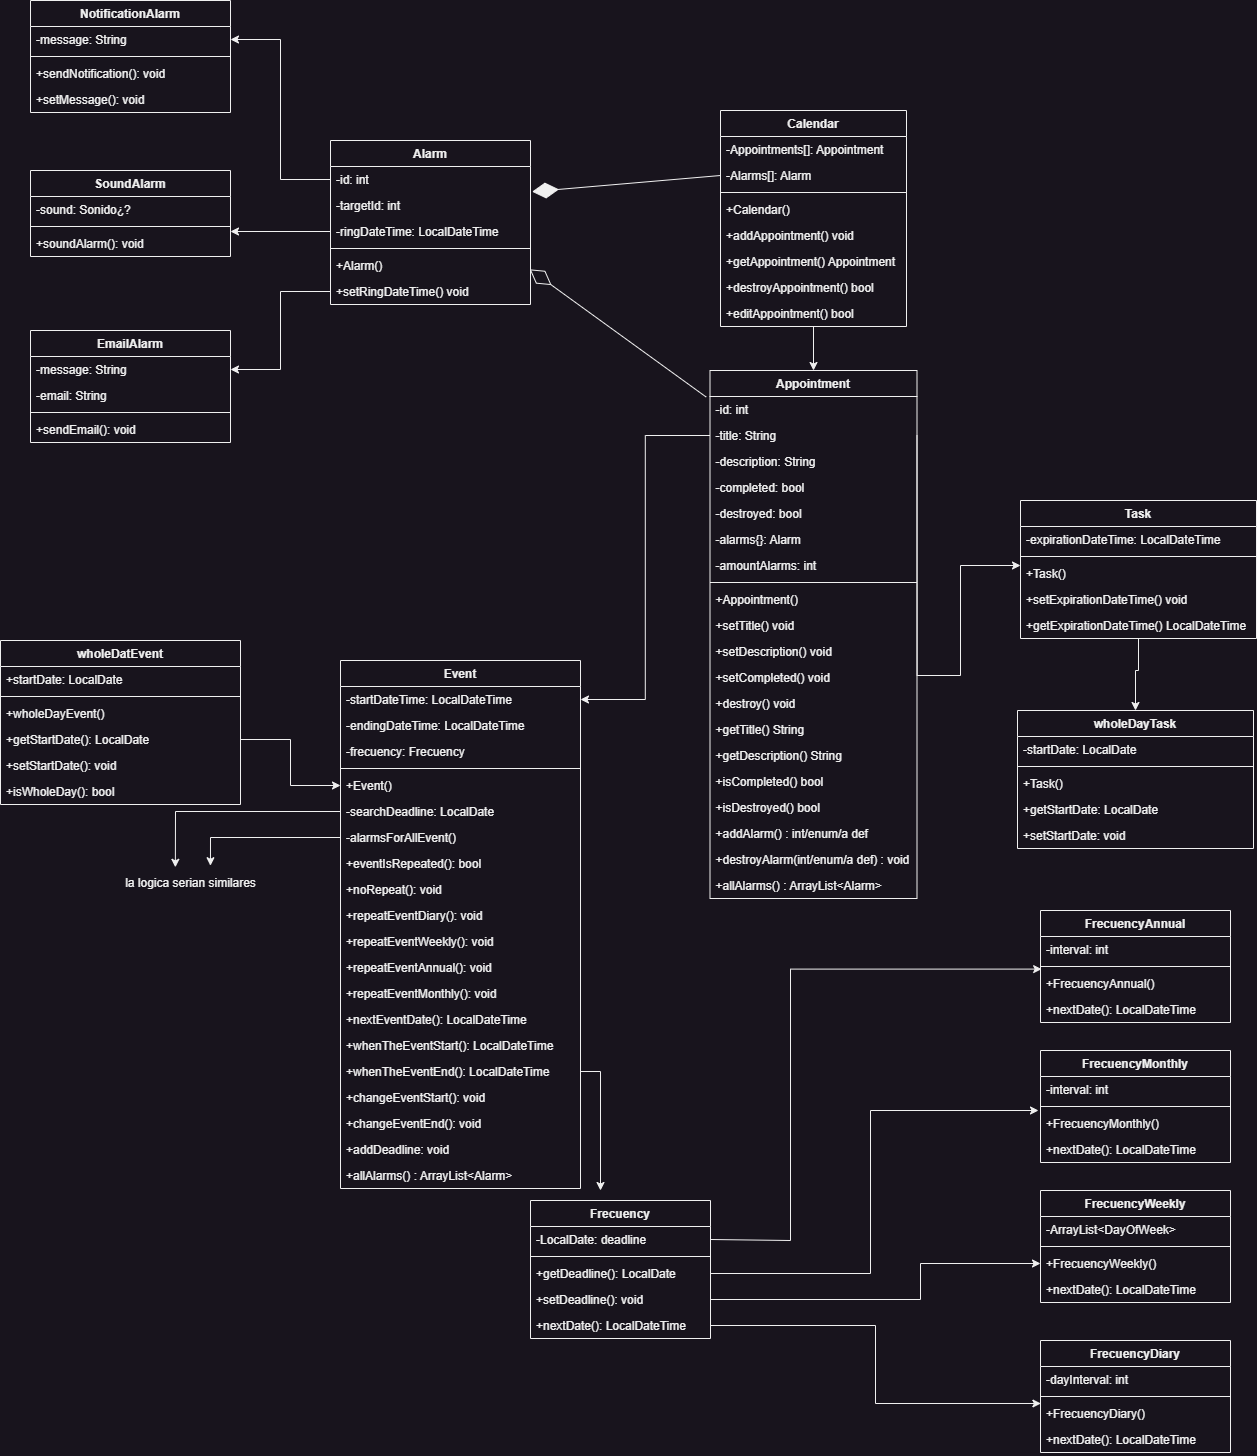
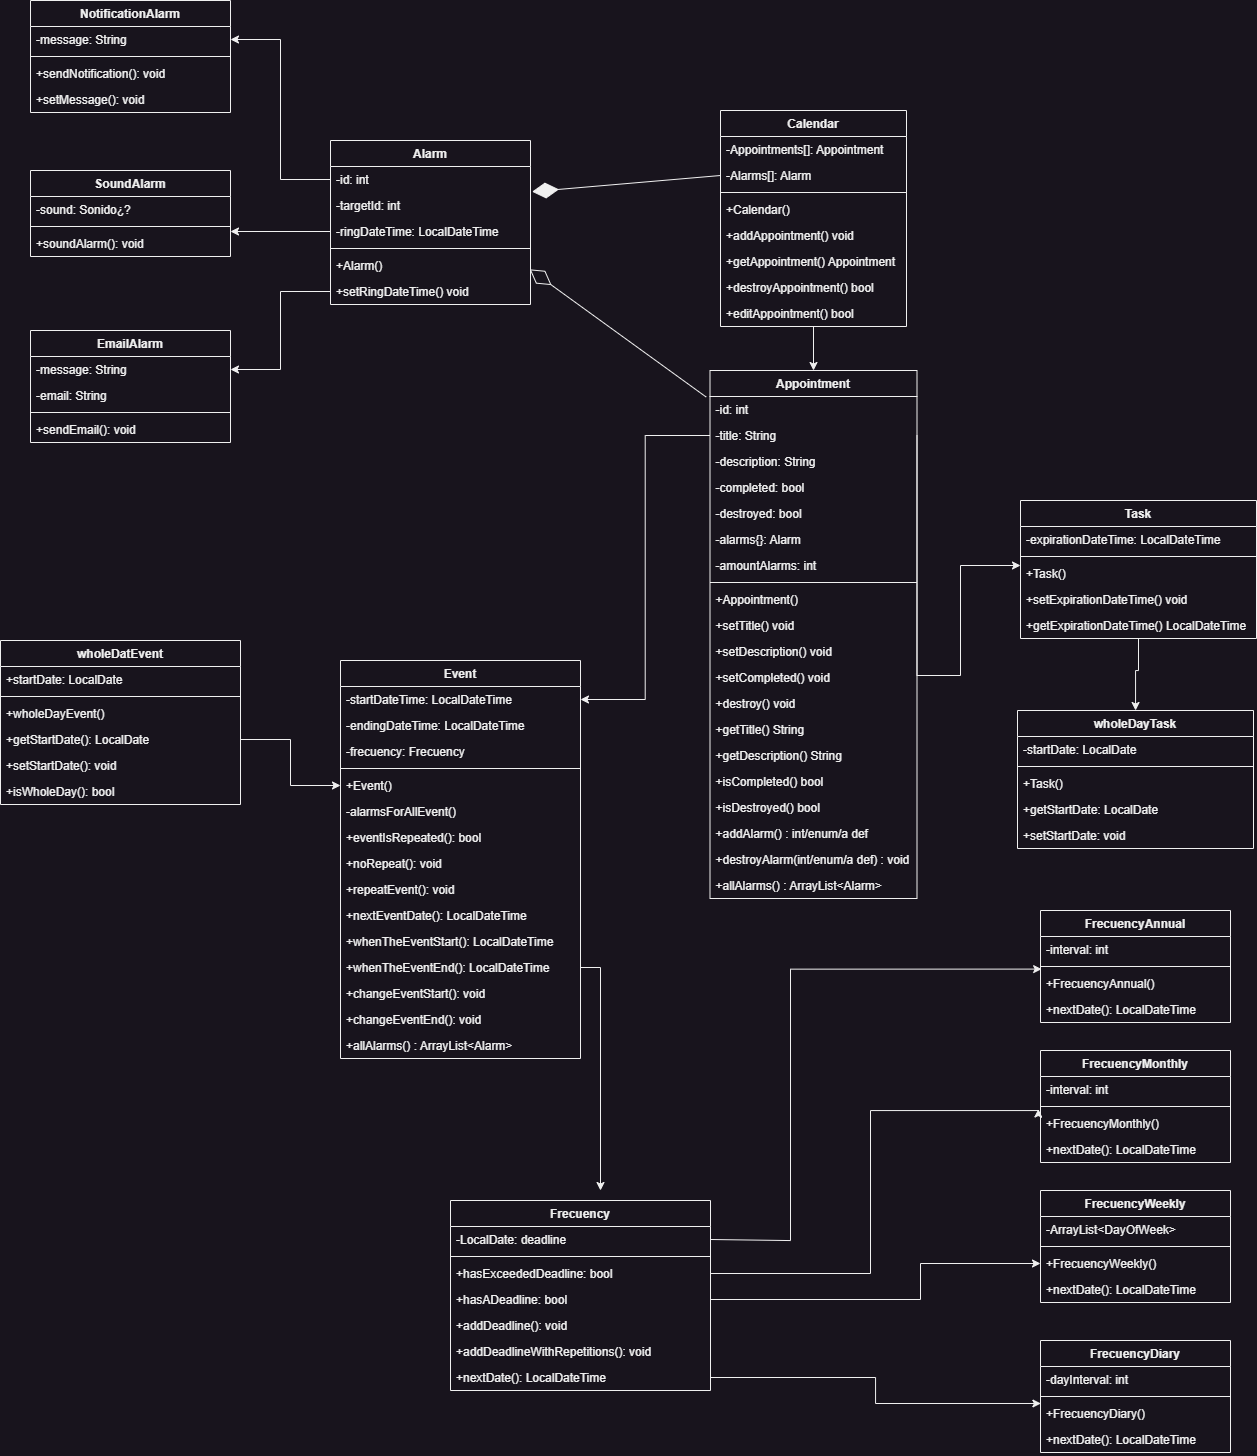
Update: mejora en el codigo, eliminar algunos get y y cumplir el principio EDP Fix: agrego las clases de las alarmas sin completar

Changed region(s): [[0.2792, 0.5563, 0.5274, 0.9581], [0.0931, 0.5872, 0.1862, 0.6181]]

diff --git a/src/test/java/org/calendar/EventTest.java b/src/test/java/org/calendar/EventTest.java
@@ -82,7 +82,8 @@ public class EventTest {
         LocalDateTime start = LocalDateTime.now().withHour(12).withMinute(00).withSecond(00);
         LocalDateTime end = LocalDateTime.now().plusDays(2).withHour(12).withMinute(00).withSecond(00);
         Event eventWithFrecuency = new Event(4, title, description, start, end);
-        eventWithFrecuency.repeatEventDiary(2);
+        Frecuency frecuencyEvent = new FrecuencyDiary(2);
+        eventWithFrecuency.repeatEvent(frecuencyEvent);
         assertTrue(eventWithFrecuency.eventIsRepeated());
     }
 
@@ -94,7 +95,8 @@ public class EventTest {
         LocalDateTime start = LocalDateTime.now().withHour(12).withMinute(00).withSecond(00);
         LocalDateTime end = LocalDateTime.now().plusDays(2).withHour(12).withMinute(00).withSecond(00);
         Event eventWithoutFrecuency = new Event(4, title, description, start, end);
-        eventWithoutFrecuency.repeatEventDiary(2);
+        Frecuency frecuencyEvent = new FrecuencyDiary(2);
+        eventWithoutFrecuency.repeatEvent(frecuencyEvent);
         eventWithoutFrecuency.noRepeat();
         assertFalse(eventWithoutFrecuency.eventIsRepeated());
         assertNull(eventWithoutFrecuency.nextEventDate(start));
@@ -108,8 +110,9 @@ public class EventTest {
         LocalDateTime start = LocalDateTime.of(2023,04,16, 12,0);
         LocalDateTime end = start.plusDays(1);
         Event event = new Event(5, title, description, start, end);
-        event.repeatEventDiary(1);
-        event.addDeadline(LocalDate.of(2023,04,20));
+        Frecuency frecuencyEvent = new FrecuencyDiary(1);
+        frecuencyEvent.addDeadline(LocalDate.of(2023,04,20));
+        event.repeatEvent(frecuencyEvent);
 
         LocalDateTime day1 = event.whenTheEventStart();
         LocalDateTime day2 = event.nextEventDate(day1);
@@ -140,9 +143,11 @@ public class EventTest {
         LocalDateTime thursday = LocalDateTime.of(2023, 4, 20, 10, 30);
         LocalDateTime saturday = LocalDateTime.of(2023, 4, 22, 10, 30);
 
+        Frecuency frecuency = new FrecuencyWeekly(array);
+        frecuency.addDeadline(LocalDate.of(2023,4,25));
+
         Event event = new Event(6, title, description, start, end);
-        event.repeatEventWeekly(array);
-        event.addDeadline(LocalDate.of(2023,4,25));
+        event.repeatEvent(frecuency);
 
         LocalDateTime day1 = event.whenTheEventStart();
         LocalDateTime day2 = event.nextEventDate(day1);
@@ -164,9 +169,12 @@ public class EventTest {
         String description = "description of event";
         LocalDateTime start = LocalDateTime.of(2023,04,20, 12,00);
         LocalDateTime end = start.plusHours(5);
+
+        Frecuency frecuency = new FrecuencyAnnual();
+        frecuency.addDeadlineWithRepetitions(5, start);
+
         Event event = new Event(7, title, description, start, end);
-        event.repeatEventAnnual();
-        event.addDeadline(5);
+        event.repeatEvent(frecuency);
 
         LocalDateTime day = event.whenTheEventStart();
         LocalDateTime rep1 = event.nextEventDate(day);
@@ -190,9 +198,11 @@ public class EventTest {
         String description = "description of event";
         LocalDateTime start = LocalDateTime.of(2023,04,20, 12,00);
         LocalDateTime end = start.plusHours(5);
+        Frecuency frecuency = new FrecuencyMonthly();
+        frecuency.addDeadlineWithRepetitions(5, start);
+
         Event event = new Event(7, title, description, start, end);
-        event.repeatEventMonthly();
-        event.addDeadline(5);
+        event.repeatEvent(frecuency);
 
         LocalDateTime day = event.whenTheEventStart();
         LocalDateTime rep1 = event.nextEventDate(day);

diff --git a/src/main/java/org/calendar/Event.java b/src/main/java/org/calendar/Event.java
@@ -1,25 +1,12 @@
 package org.calendar;
 
-import java.time.DayOfWeek;
-import java.time.LocalDate;
 import java.time.LocalDateTime;
-import java.util.ArrayList;
 
 public class Event extends Appointment{
 
     private LocalDateTime startDateTime;
     private LocalDateTime endingDateTime;
     private Frecuency frecuency;
-
-    //Post: receives an integer representing the occurrences of the event.
-    //Pre: return the deadline.
-    private LocalDate searchDeadline(int repetitions){
-        LocalDateTime date = this.whenTheEventStart();
-        for(int i = 0; i < repetitions; i++){
-            date = this.nextEventDate(date);
-        }
-        return date.toLocalDate();
-    }
 
     //Constructor: if the event has a duration other than the whole day.
     public Event(int id, String title, String description,
@@ -39,38 +26,10 @@ public class Event extends Appointment{
         this.frecuency = null;
     }
 
-    //Post: adds the frequency to the event, to monthly or annual frequency.
-    public void repeatEventDiary(int interval){
-        this.frecuency = new FrecuencyDiary(interval);
-    }
-
-    //Post: adds the frequency to the event, to daily frequency.
-    public void repeatEventAnnual(){
-        this.frecuency = new FrecuencyAnnual();
-    }
-
-    //Post: adds the frequency to the event, to monthly frequency.
-    public void repeatEventMonthly(){
-        this.frecuency = new FrecuencyMonthly();
-    }
-
-    //Pre: receives the array of days in which the events take place
-    //Post: adds the frequency to the event, to weekly frequency.
-    public void repeatEventWeekly(ArrayList<DayOfWeek> weekDay){
-        this.frecuency = new FrecuencyWeekly(weekDay);
-    }
-
-    //Pre: receive the date that will be the deadline.
-    //Post: adds the deadline to the event.
-    public void addDeadline(LocalDate date){
-        this.frecuency.setDeadline(date);
-    }
-
-    //Pre: receives the number of repetitions of the event.
-    //Post: adds the deadline to the event, counting the number of repetitions.
-    public void addDeadline(int repetitions){
-        LocalDate date = this.searchDeadline(repetitions);
-        this.frecuency.setDeadline(date);
+    //Pre: receives the frequency that the event will have.
+    //Post: adds the frequency to the event.
+    public void repeatEvent(Frecuency frecuency){
+        this.frecuency = frecuency;
     }
 
     //Pre: receive a date to know your next event.

diff --git a/src/main/java/org/calendar/Frecuency.java b/src/main/java/org/calendar/Frecuency.java
@@ -10,15 +10,32 @@ import java.util.Collections;
 public abstract class Frecuency {
 
     private LocalDate deadline;
-    //Post: returns the deadline.
-    public LocalDate getDeadline(){
-        return this.deadline;
+
+    public boolean hasExceededDeadline(LocalDate date){
+        return date.compareTo(this.deadline) > 0;
     }
 
-    //Pre: receive a date and now what will be the deadline.
-    public void setDeadline(LocalDate date){
+    //Post: returns true if there is a deadline. If not, return false.
+    public boolean hasADeadline(){
+        return this.deadline != null;
+    }
+
+    //Pre: receive the date that will be the deadline.
+    //Post: adds the deadline to the event.
+    public void addDeadline(LocalDate date){
         this.deadline = date;
     }
 
+    //Pre: receives the number of repetitions of the event.
+    //Post: adds the deadline to the event, counting the number of repetitions.
+    public void addDeadlineWithRepetitions(int repetitions, LocalDateTime date){
+        for(int i = 0; i < repetitions; i++){
+            date = this.nextDate(date);
+        }
+        this.addDeadline(date.toLocalDate());
+    }
+
+    //Pre: receive a date and time what will be the deadline.
     public abstract LocalDateTime nextDate(LocalDateTime date);
+
 }

diff --git a/src/main/java/org/calendar/EmailAlarm.java b/src/main/java/org/calendar/EmailAlarm.java
@@ -1,0 +1,30 @@
+package org.calendar;
+
+import java.time.LocalDateTime;
+
+public class EmailAlarm extends Alarm{
+    private String message;
+    private String email;
+
+    //Constructor.
+    public EmailAlarm(int id, int targetId, LocalDateTime ringLocalDate, String message, String email){
+        super(id, targetId, ringLocalDate);
+        this.message = message;
+        this.email = email;
+    }
+
+    //Change the message.
+    public void setMessage(String message){
+        this.message = message;
+    }
+
+    //Change the email.
+    public void setEmail(String email){
+        this.email = email;
+    }
+
+    //send the alarm by email
+    public void sendEmail(){
+
+    }
+}

diff --git a/src/main/java/org/calendar/NotificationAlarm.java b/src/main/java/org/calendar/NotificationAlarm.java
@@ -1,0 +1,23 @@
+package org.calendar;
+
+import java.time.LocalDateTime;
+
+public class NotificationAlarm extends Alarm{
+    private String message;
+
+    //Constructor
+    public NotificationAlarm(int id, int targetId, LocalDateTime ringDateTime, String message){
+        super(id, targetId, ringDateTime);
+        this.message = message;
+    }
+
+    //Send the alarm notification
+    public void sendNotification(){
+
+    }
+
+    //Change the message.
+    public void setMessage(String message){
+        this.message = message;
+    }
+}

diff --git a/src/main/java/org/calendar/Alarm.java b/src/main/java/org/calendar/Alarm.java
@@ -1,0 +1,21 @@
+package org.calendar;
+
+import java.time.LocalDateTime;
+
+public class Alarm {
+    private int id;
+    private int targetId;
+    private LocalDateTime ringDateTime;
+
+    //Constructor
+    public Alarm(int id, int targetId, LocalDateTime ringDateTime){
+        this.id = id;
+        this.targetId = targetId;
+        this.ringDateTime = ringDateTime;
+    }
+
+    //Change the date and time of alarm.
+    public void setRingDateTime(LocalDateTime ringDateTime){
+        this.ringDateTime = ringDateTime;
+    }
+}

diff --git a/src/main/java/org/calendar/FrecuencyMonthly.java b/src/main/java/org/calendar/FrecuencyMonthly.java
@@ -18,9 +18,8 @@ public class FrecuencyMonthly extends Frecuency{
     public LocalDateTime nextDate(LocalDateTime date){
         LocalDateTime dayTime = date.plus(this.interval, ChronoUnit.MONTHS);
         LocalDate day = dayTime.toLocalDate();
-        if (super.getDeadline() != null){
-            LocalDate lastDay = super.getDeadline();
-            if (day.compareTo(lastDay) > 0){
+        if (super.hasADeadline()){
+            if (super.hasExceededDeadline(day)){
                 return null;
             }
         }

diff --git a/src/main/java/org/calendar/FrecuencyAnnual.java b/src/main/java/org/calendar/FrecuencyAnnual.java
@@ -18,9 +18,8 @@ public class FrecuencyAnnual extends Frecuency{
     public LocalDateTime nextDate(LocalDateTime date){
         LocalDateTime dayTime = date.plus(this.interval, ChronoUnit.YEARS);
         LocalDate day = dayTime.toLocalDate();
-        if (super.getDeadline() != null){
-            LocalDate lastDay = super.getDeadline();
-            if (day.compareTo(lastDay) > 0){
+        if (super.hasADeadline()){
+            if (super.hasExceededDeadline(day)){
                 return null;
             }
         }

diff --git a/src/main/java/org/calendar/FrecuencyDiary.java b/src/main/java/org/calendar/FrecuencyDiary.java
@@ -17,9 +17,8 @@ public class FrecuencyDiary extends Frecuency{
     public LocalDateTime nextDate(LocalDateTime date){
         LocalDateTime dayTime = date.plus(this.interval, ChronoUnit.DAYS);
         LocalDate day = dayTime.toLocalDate();
-        if (super.getDeadline() != null){
-            LocalDate lastDay = super.getDeadline();
-            if (day.compareTo(lastDay) > 0){
+        if (super.hasADeadline()){
+            if (super.hasExceededDeadline(day)){
                 return null;
             }
         }

diff --git a/src/main/java/org/calendar/FrecuencyWeekly.java b/src/main/java/org/calendar/FrecuencyWeekly.java
@@ -32,9 +32,8 @@ public class FrecuencyWeekly extends Frecuency{
             numberOfDays = NUM_DAY;
         }
         LocalDate datePlus = date.plusDays(numberOfDays).toLocalDate();
-        if (super.getDeadline() != null){
-            LocalDate lastDate = super.getDeadline();
-            if (datePlus.compareTo(lastDate) > 0){
+        if (super.hasADeadline()){
+            if (super.hasExceededDeadline(datePlus)){
                 return null;
             }
         }

diff --git a/src/main/java/org/calendar/SoundAlarm.java b/src/main/java/org/calendar/SoundAlarm.java
@@ -1,0 +1,18 @@
+package org.calendar;
+
+import java.time.LocalDateTime;
+
+public class SoundAlarm extends Alarm{
+
+//    private ALGUNALIBRERIA sound;
+
+    //Constructor
+    public SoundAlarm(int id, int targetId, LocalDateTime ringLocalDate){
+        super(id, targetId, ringLocalDate);
+    }
+
+    //Sounds the alarm
+    public void dreamAlarm(){
+
+    }
+}
